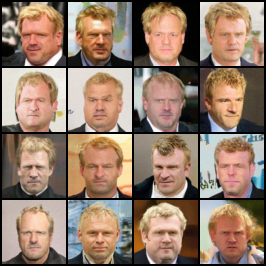
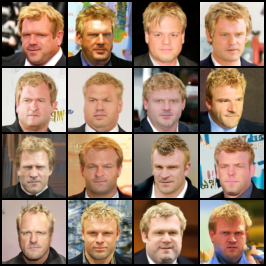
Clean up repo root: single sweep entry point, artifacts consolidated
- Retire ablations.py, evaluation.sh, time_ablation.sh to legacy/ — all
  superseded by run_experiments.py (parallel entry points caused the
  course-era checkpoint drift)
- Move the three root qualitative PNGs into images/ (overwriting stale
  older duplicates with the canonical final-push versions); update README refs
- Remove chkp66/ scratch dir; untrack .vscode/
- .gitignore: add .DS_Store, .vscode/, experiment_runs/; except
  results_summary.json from the blanket *.json rule so aggregated results
  are committable (the old blanket ignore is why all course-era numbers
  were lost)
- Wiki: Codebase-Map/Runbook/Evaluation pages rewritten for the new layout;
  Design-Decisions D13

diff --git a/fast-DiT.wiki/Runbook.md b/fast-DiT.wiki/Runbook.md
@@ -62,7 +62,18 @@ python sample-cfg-mp.py --ckpt $CKPT --attributes Male Chubby Blond_Hair \
 
 Filenames are auto-derived (`vanilla_cfg_{attrs}.png`, `cfg_mp_{method}_{attrs}.png`) and **collide across CFG scales** — rename immediately (the committed `_3` / `_8` suffixes were added by hand).
 
-## 4. Five-method comparison
+## 4. Running the full experiment matrix (current entry point)
+
+```bash
+python run_experiments.py --ckpt results/000-DiT-B-2/checkpoints/0072000.pt --dry-run   # inspect the plan
+python run_experiments.py --ckpt results/000-DiT-B-2/checkpoints/0072000.pt             # default tiers: must,baseline (37 runs)
+python run_experiments.py --ckpt <ckpt> --tiers must,baseline,should                    # everything (50 runs)
+python run_experiments.py --ckpt <ckpt> --only cfg_mp_icml                              # substring-filtered subset
+```
+
+Resumable (re-invoking skips completed runs), failure-isolated (one bad run doesn't kill the sweep), and aggregates everything into `results_summary.csv` / `results_summary.json` — both committable. §§4a–6 below document the underlying per-run commands and the retired course-era scripts.
+
+## 4a. Five-method comparison (manual form)
 
 ```bash
 CKPT=results/000-DiT-B-2/checkpoints/0072000.pt   # prefer 72k for consistency with the ablations
@@ -81,29 +92,15 @@ for M in uncond cfg cfg_mp_std cfg_mp_anderson cfg_mp_anderson_gated; do
 done
 ```
 
-(`evaluation.sh` does this but has the generation block commented out and points at the 66k checkpoint. Note also that `uncond` writes to `samples_uncond_w4.0_steps50` — the `w` in the name is the CLI default, not a guidance scale that was applied.)
+(`legacy/evaluation.sh` did this but has the generation block commented out and points at the 66k checkpoint — retired; use `run_experiments.py`. Note also that `uncond` writes to `samples_uncond_w4.0_steps50` — the `w` in the name is the CLI default, not a guidance scale that was applied.)
 
 Expected NFE per sample: **50 / 100 / 200 / 200 / 142**.
 
-## 5. Ablation A — CFG scale
+## 5. Ablations A (CFG scale) and B (time gating) — retired scripts
 
-```bash
-python ablations.py     # Phase 1 only — Phase 2 is broken, see Gotchas §2
-```
+Both sweeps are rows in the `run_experiments.py` manifest (tags E1/E2 and E5). The retired course-era entry points are `legacy/ablations.py` (Phase 2 `--out-dir` bug was fixed on this branch before retirement) and `legacy/time_ablation.sh`.
 
-Sweeps `w ∈ {2,4,6,8}` on `cfg_mp_anderson_gated` with gate `[0.3, 0.7]`. Edit `CKPT`, `SAMPLES`, `STEPS` at the top of the file. Writes `ablation_summary_{timestamp}.csv`.
-
-To run Phase 1 alone safely, either patch in `--out-dir` (recommended, one line per command) or `return` after Phase 1.
-
-## 6. Ablation B — time gating
-
-```bash
-./time_ablation.sh
-```
-
-Runs Early `[0,0.3]`, Middle `[0.3,0.7]`, Late `[0.7,1.0]`, Full `[0,1]` at `w=4.0`, each into its own `samples_gated_{Name}_w4.0/` with `--out-dir` passed to both generator and evaluator. Per-run results land in `samples_gated_{Name}_w4.0/evaluation_results.json` and `generation_stats.json` — **this script does not aggregate**, collect the four JSON pairs manually.
-
-Sanity check: the **Full** row must match the `cfg_mp_anderson` row from §4 exactly (200 NFE, same FID, same accuracy).
+Sanity check that survives the migration: the **Full-gate** `[0,1]` row must match the `cfg_mp_anderson` row exactly (200 NFE, same FID, same accuracy) — the runner includes both.
 
 ## 7. Publish the checkpoint
 
@@ -127,10 +124,11 @@ Requires `huggingface-cli login`. Edit `local_file_path` in the file to change w
 | Per-run conditions | `samples_*/conditions.pt` | yes (`*.pt`) |
 | NFE log | `samples_*/generation_stats.json` | yes (`*.json`) |
 | Metrics | `samples_*/evaluation_results.json` | yes (`*.json`) |
-| Ablation table | `ablation_summary_*.csv` | **no** — but none is committed |
-| Qualitative grids | `images/`, repo root | no |
+| Per-run outputs (runner) | `experiment_runs/<run_id>/` | yes (`experiment_runs/`) |
+| **Aggregated results** | `results_summary.csv`, `results_summary.json` | **no — commit these.** (`.gitignore` has an explicit `!results_summary.json` exception to the blanket `*.json` rule) |
+| Qualitative grids | `images/` | no |
 
-**Everything numeric is gitignored.** If results need to survive, either commit the CSV explicitly (`git add -f`) or copy the JSONs somewhere outside the ignore patterns.
+Per-run JSONs remain gitignored; the aggregated summary is the survivable artifact — **commit `results_summary.*` after every server session** so the numbers can never be lost again (course-era numbers died to the old blanket ignore).
 
 ## External assets
 

diff --git a/fast-DiT.wiki/Codebase-Map.md b/fast-DiT.wiki/Codebase-Map.md
@@ -2,22 +2,21 @@
 
 The repo is a fork three generations deep (Meta DiT → `chuanyangjin/fast-DiT` → this project). Roughly half the files are inherited and inert. This page separates them.
 
-## Live — written or substantially rewritten for this project
+## Live — the working surface after the 2026-07-30 cleanup
 
 | File | Role |
 |---|---|
-| `models.py` | DiT backbone. **Project change**: `MultiLabelEmbedder` (lines 97-124) + wiring at line 201. Everything else is upstream. |
-| `train.py` | Flow-matching training loop (lines 251-272 are the rewrite), Accelerate/bf16, EMA, resume. |
+| `models.py` | DiT backbone. **Project change**: `MultiLabelEmbedder` (lines 97-124) + wiring at line 201; inference no longer pays gradient checkpointing. Everything else is upstream. |
+| `train.py` | Flow-matching training loop, Accelerate/bf16, EMA, resume (dead DDPM/VAE leftovers removed on the restructure branch). |
 | `dataset.py` | CelebA loader with full-split RAM tensor caching, HF-hub / Arrow / local-dir modes, attribute extraction. Written for this project (commit `4f88c1d`). |
 | `download_dataset.py` | Dumps the FID reference set (`real_images/`) and the conditioning pool (`attributes.pt`). |
-| **`sample_generator.py`** | **The core artifact.** All five sampling methods + NFE accounting. Everything quantitative comes from here. |
+| **`sample_generator.py`** | **The core artifact.** All eleven sampling methods (ours + competitor baselines, see [Sampling-Scripts](Sampling-Scripts.md)) + exact NFE accounting. Everything quantitative comes from here. |
+| **`run_experiments.py`** | **The sweep entry point.** Manifest-driven, resumable runner for the full publication matrix; `--dry-run` to inspect; aggregates to `results_summary.csv/json` (committable — `.gitignore` has an exception). Supersedes `legacy/ablations.py`, `legacy/evaluation.sh`, `legacy/time_ablation.sh`. |
 | `sample-cfg-mp.py` | Qualitative grids with the MP corrector, attribute names on the CLI. |
 | `sample-vanilla-cfg.py` | Qualitative grids, vanilla CFG. |
 | `evaluate_metrics.py` | FID + attribute accuracy via the HF ResNet-18 classifier. |
-| `evaluation.sh` | Five-method comparison at w=4.0, ckpt 66k. |
-| `ablations.py` | CFG-scale sweep (vanilla + gated arms, paired) + gate sweep, aggregates to CSV. Phase 2 `--out-dir` bug fixed and vanilla baseline arm added on the restructure branch. |
-| `time_ablation.sh` | Gate sweep done correctly, with `--out-dir`. |
 | `hf_push.py` | Uploads `0100000.pt` to `FarStryke21/cmu-10799-dit-b2`. |
+| `images/` | All committed qualitative grids (the three final-push triptych PNGs moved here from the repo root). |
 
 ## Inherited and **inert** — do not treat as project code
 
@@ -41,8 +40,7 @@ The repo is a fork three generations deep (Meta DiT → `chuanyangjin/fast-DiT` 
 | Path | Contents |
 |---|---|
 | `images/` | Nine committed qualitative grids (see [Sampling-Scripts](Sampling-Scripts.md#committed-qualitative-artifacts)) |
-| repo root `*.png` | Final-push triptych: `vanilla_cfg_Male_Chubby_Blond_Hair_3.png`, `_8.png`, `cfg_mp_anderson_Male_Chubby_Blond_Hair.png` |
-| `chkp66/` | Empty but for a `.gitignore` containing `*.png` — a scratch dir for checkpoint-66k sample grids |
+| `images/` (final-push triptych) | `vanilla_cfg_Male_Chubby_Blond_Hair_3.png`, `_8.png`, `cfg_mp_anderson_Male_Chubby_Blond_Hair.png` — moved from the repo root in the cleanup; `chkp66/` (an empty scratch dir) was removed at the same time |
 
 ## What `.gitignore` excludes (and why there are no numbers in the repo)
 

diff --git a/README.md b/README.md
@@ -82,7 +82,7 @@ Anderson-corrected sampler at the same seed:
 
 | vanilla CFG (low scale) | vanilla CFG (high scale) | CFG + Anderson corrector |
 |---|---|---|
-| ![](vanilla_cfg_Male_Chubby_Blond_Hair_3.png) | ![](vanilla_cfg_Male_Chubby_Blond_Hair_8.png) | ![](cfg_mp_anderson_Male_Chubby_Blond_Hair.png) |
+| ![](images/vanilla_cfg_Male_Chubby_Blond_Hair_3.png) | ![](images/vanilla_cfg_Male_Chubby_Blond_Hair_8.png) | ![](images/cfg_mp_anderson_Male_Chubby_Blond_Hair.png) |
 
 The high-scale vanilla grid shows the textbook off-manifold signature — pushed saturation, hardened edges,
 backgrounds collapsing to flat colour. The corrected grid sits closer to the low-scale grid in colour and
@@ -102,9 +102,7 @@ Live code is at the repository root:
 | `sample_generator.py` | **Canonical sampler** — all 10 methods, NFE accounting |
 | `sample-cfg-mp.py`, `sample-vanilla-cfg.py` | Qualitative grid generation |
 | `evaluate_metrics.py` | FID + attribute accuracy |
-| `evaluation.sh` | 5-method comparison sweep |
-| `ablations.py` | CFG-scale sweep (vanilla baseline + gated corrector) and gate sweep |
-| `time_ablation.sh` | Time-gating sweep (Early / Middle / Late / Full) |
+| `run_experiments.py` | Manifest-driven, resumable runner for the full experiment matrix (`--dry-run` to inspect; aggregates to `results_summary.csv`) |
 | `hf_push.py` | Uploads a checkpoint to the Hub |
 
 - `legacy/` — inert code inherited from the upstream forks. Not imported, not executed. See `legacy/README.md`.
@@ -156,14 +154,18 @@ python evaluate_metrics.py \
   --classifier FarStryke21/celeba-resnet18-classifier
 ```
 
-**5. Sweeps** — `ablations.py` sweeps `w ∈ {2,4,6,8}` for both vanilla CFG and the gated corrector, then the
-gating windows, and writes `ablation_summary_{timestamp}.csv`. `time_ablation.sh` runs the gate sweep alone
-(configuration is edited at the top of the script).
+**5. Sweeps** — `run_experiments.py` is a manifest-driven, resumable runner that walks the full publication
+experiment matrix (see `fast-DiT.wiki/Publication-Plan.md`), calling `sample_generator.py` then
+`evaluate_metrics.py` for each entry, skipping work already done on disk, and aggregating everything into
+`results_summary.csv` / `results_summary.json`.
 
 ```bash
-python ablations.py --ckpt results/000-DiT-B-2/checkpoints/0072000.pt
-./time_ablation.sh
+python run_experiments.py --ckpt results/000-DiT-B-2/checkpoints/0072000.pt --dry-run
+python run_experiments.py --ckpt results/000-DiT-B-2/checkpoints/0072000.pt --tiers must,baseline
 ```
+
+Other flags: `--only <substring>` (restrict to run_ids containing it), `--samples` (1000), `--batch` (100),
+`--steps` (50).
 
 ## Evaluation protocol
 

diff --git a/fast-DiT.wiki/Design-Decisions.md b/fast-DiT.wiki/Design-Decisions.md
@@ -6,6 +6,9 @@ Running log of non-obvious choices, with alternatives considered and rationale. 
 
 ## 2026-07-30 — Publication-restructure branch
 
+### D13. Root cleanup: one sweep entry point, no stray artifacts
+User asked for a repo cleanup (2026-07-30). Decisions: (1) `ablations.py`, `evaluation.sh`, `time_ablation.sh` retired to `legacy/` — all three are strict subsets of the `run_experiments.py` manifest, and keeping parallel sweep entry points invites config drift (the checkpoint inconsistency of Gotchas §12 was exactly this failure mode); (2) the three root PNGs moved to `images/`; (3) `chkp66/` scratch dir removed, `.vscode/` untracked, `.DS_Store` ignored; (4) `.gitignore` now ignores `experiment_runs/` (bulk per-run outputs) but explicitly **excepts `results_summary.json`** from the blanket `*.json` rule — aggregated numbers are meant to be committed after every server session, so results can never be silently lost again (the course-era loss was caused by the old blanket ignore).
+
 ### D12. Improvement framing (user directive) and the head-to-head toolkit
 The user confirmed CFG-MP/CFG-MP+ is known, published prior work and the goal is to **improve on it**. Consequences: (1) their operator was implemented in `sample_generator.py` (`cfg_mp_icml`, verified against arXiv:2601.21892 v2 — 2 NFE/iteration, both velocities at t_{i+1}, AA(1,1) Anderson; their two forwards are *sequential*, unbatchable, so wall-clock favors us beyond NFE); (2) our time gate was also applied to *their* corrector (`cfg_mp_icml_anderson_gated`) to support "gating is a universal plug-in"; (3) E13 (their benchmark family, pretrained DiT-XL/2) upgraded to near-must. Convention note: `--proj-K` keeps the repo's K−1 semantics for all methods, so `proj_K=3` = the CFG-MP paper's recommended FPI=2 — the runner was corrected after initially passing `proj_K=2` (1 iteration) for B3.
 

diff --git a/legacy/README.md b/legacy/README.md
@@ -7,3 +7,10 @@ This directory holds code and assets inherited from the upstream forks (Meta DiT
 In particular, **do not cite `performance/` as project results** — those are upstream's May-2023 ImageNet training-throughput SLURM logs on a DDPM objective, unrelated to this project's CelebA-64 flow-matching experiments. The same applies to `visuals/` (upstream ImageNet sample grids) and `README_upstream.md`.
 
 `diffusion/` is the IDDPM Gaussian-diffusion package; this project trains with flow matching and never calls it. `sample.py`, `sample_ddp.py`, `extract_features.py`, and `download.py` assume a latent-space VAE pipeline incompatible with this project's pixel-space checkpoints.
+
+## Retired course-era sweep scripts
+
+`ablations.py`, `evaluation.sh`, and `time_ablation.sh` are this project's own code (not inherited from
+upstream) — the original course-era sweep entry points. They are superseded on this branch by
+`run_experiments.py`, the manifest-driven, resumable runner at the repository root, and are kept here only
+for provenance.

diff --git a/fast-DiT.wiki/Evaluation-and-Ablations.md b/fast-DiT.wiki/Evaluation-and-Ablations.md
@@ -1,5 +1,7 @@
 # Evaluation and Ablations
 
+> **2026-07-30 update:** every sweep described in §2–§5 is now driven by **`run_experiments.py`** (manifest of ~50 deduplicated, resumable runs covering the full [Publication-Plan §4](Publication-Plan.md) matrix; `python run_experiments.py --ckpt <ckpt> --dry-run` to inspect). The scripts named below — `evaluation.sh`, `ablations.py`, `time_ablation.sh` — are retired to `legacy/` and kept for provenance; their protocol descriptions remain valid documentation of *what* is measured and why. The §1 metrics description is current.
+
 ## 1. Metrics (`evaluate_metrics.py`)
 
 Two axes, deliberately opposed — the whole thesis is about the trade-off between them.
